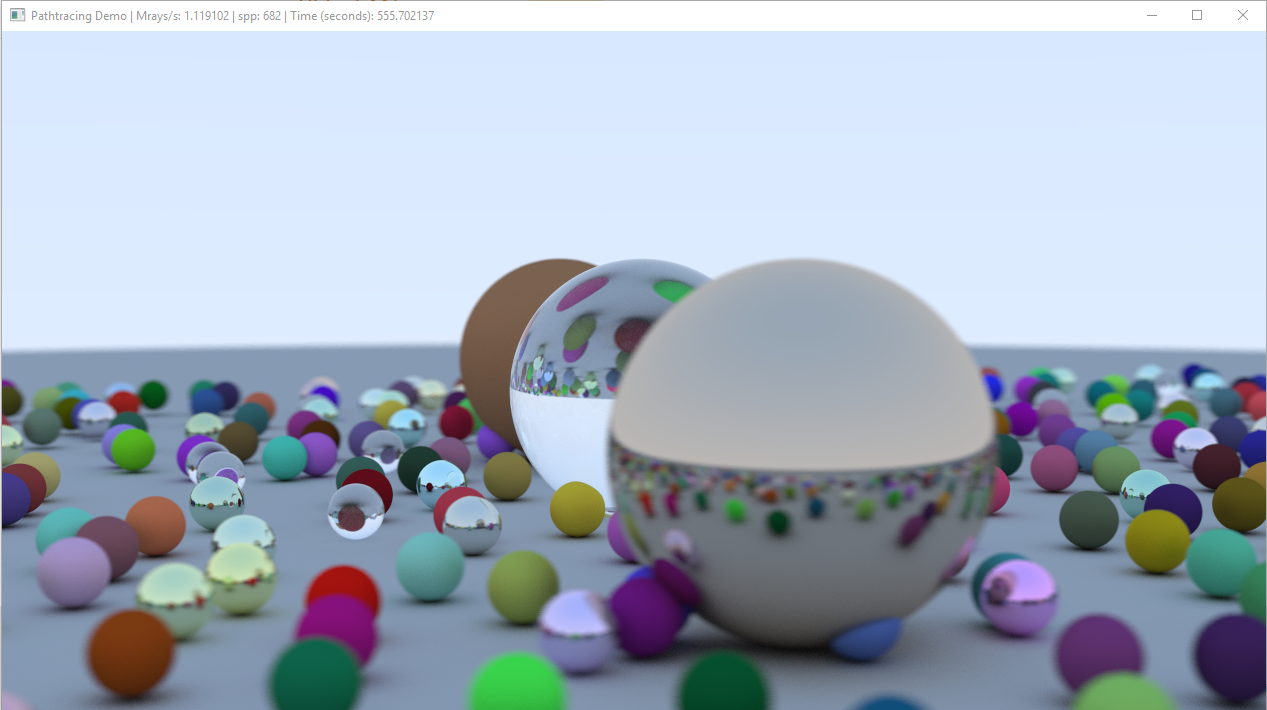
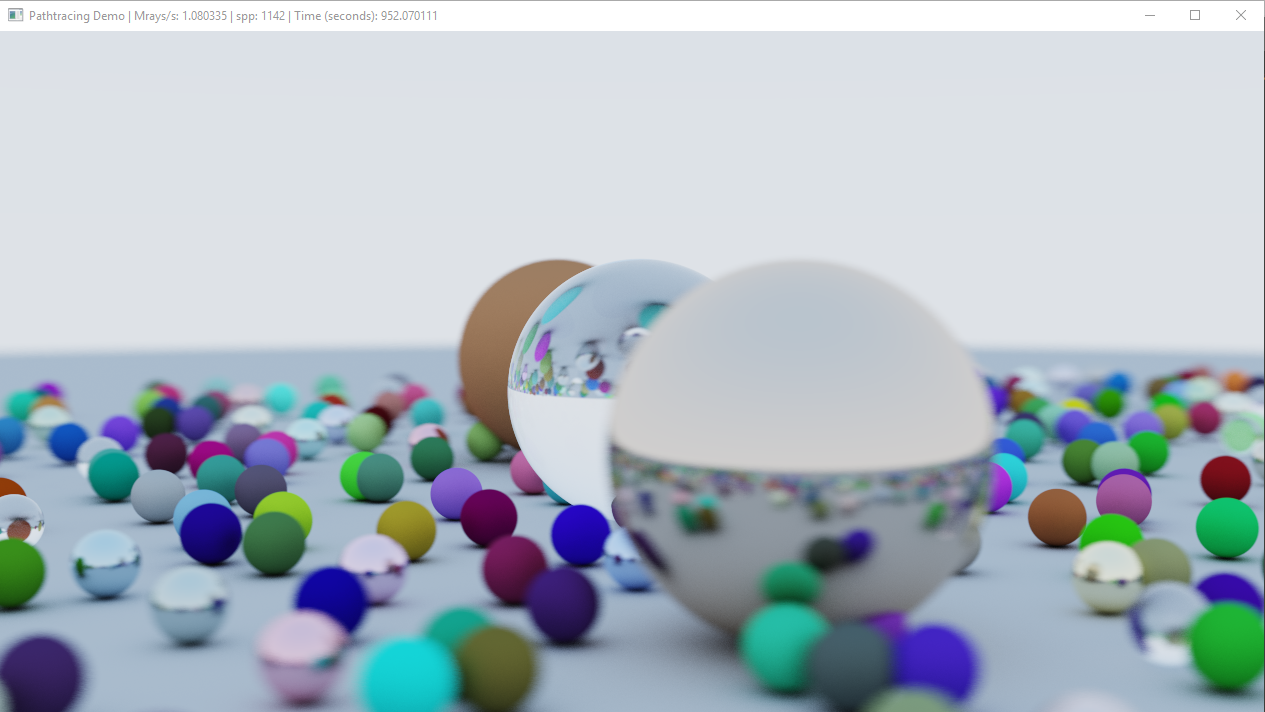
Updated README and sample image

diff --git a/README.md b/README.md
@@ -1,1 +1,11 @@
+CPU path tracer based on Perter Shirley's [**Ray Tracing in One Weekend**](https://www.amazon.ca/Ray-Tracing-Weekend-Minibooks-Book-ebook/dp/B01B5AODD8). 
+
+* Implemented in C++17
+* Direct2D for live preview. 
+* Multithreading
+* DirectXMath for SIMD
+
+### References
+[Raytracing Depth of Field](https://t.co/qRCE7YJeOb)
+
 ![img1](/media/Screenshot.PNG)
